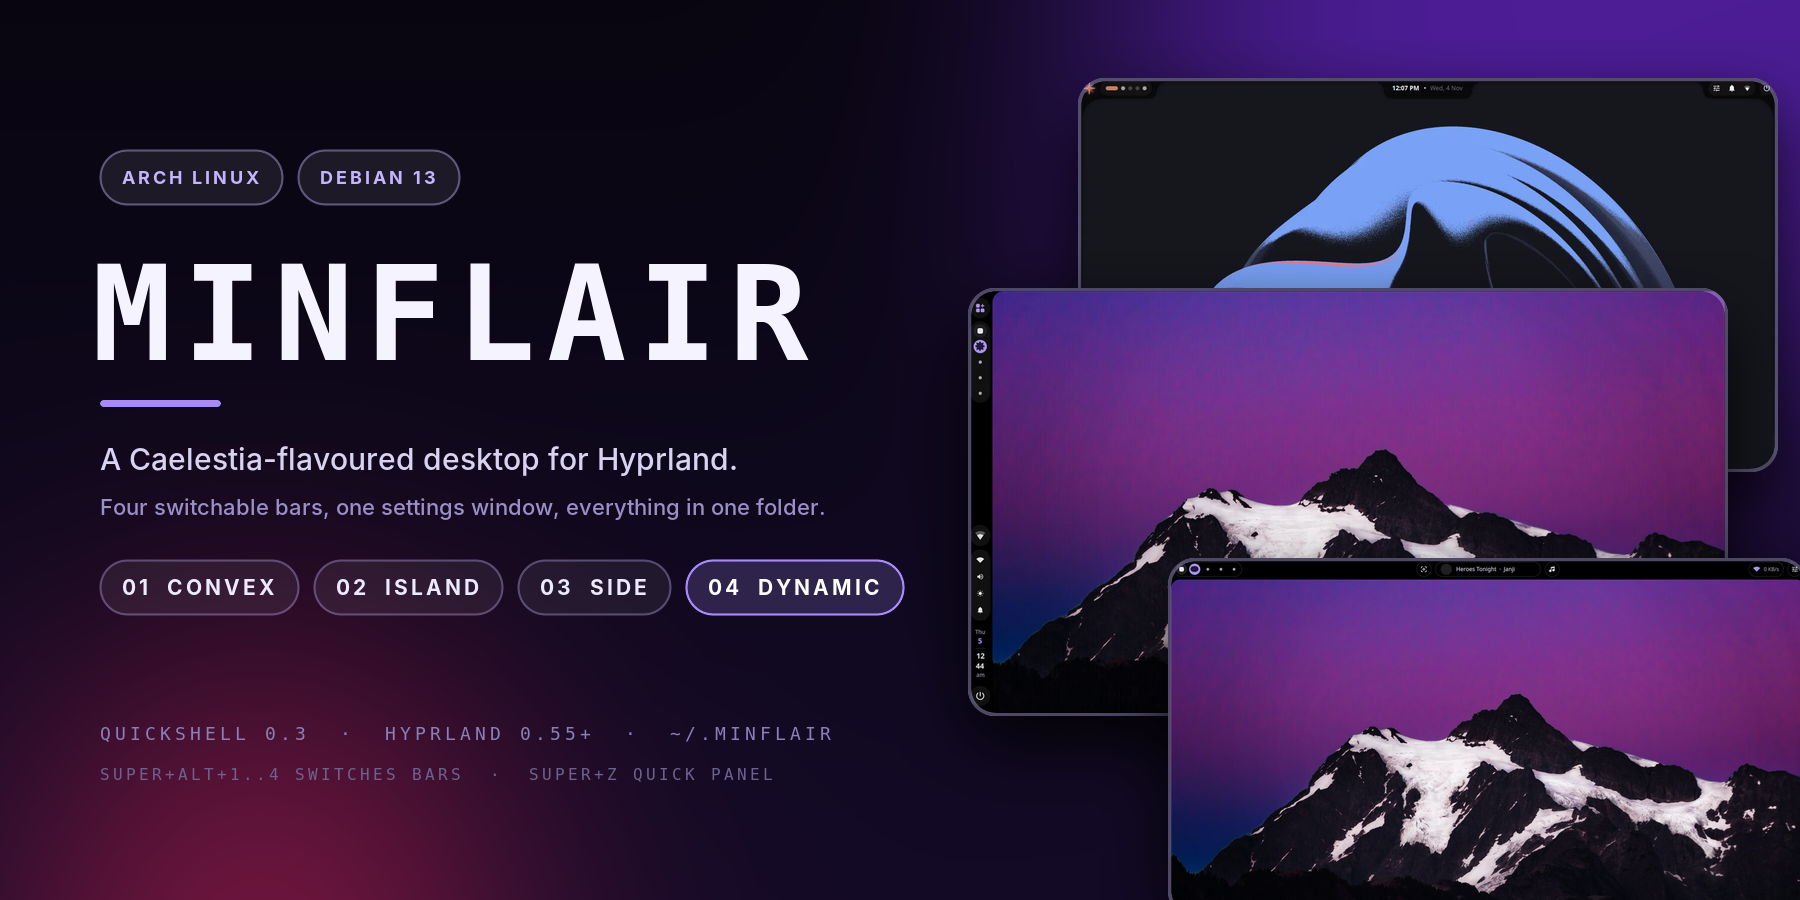
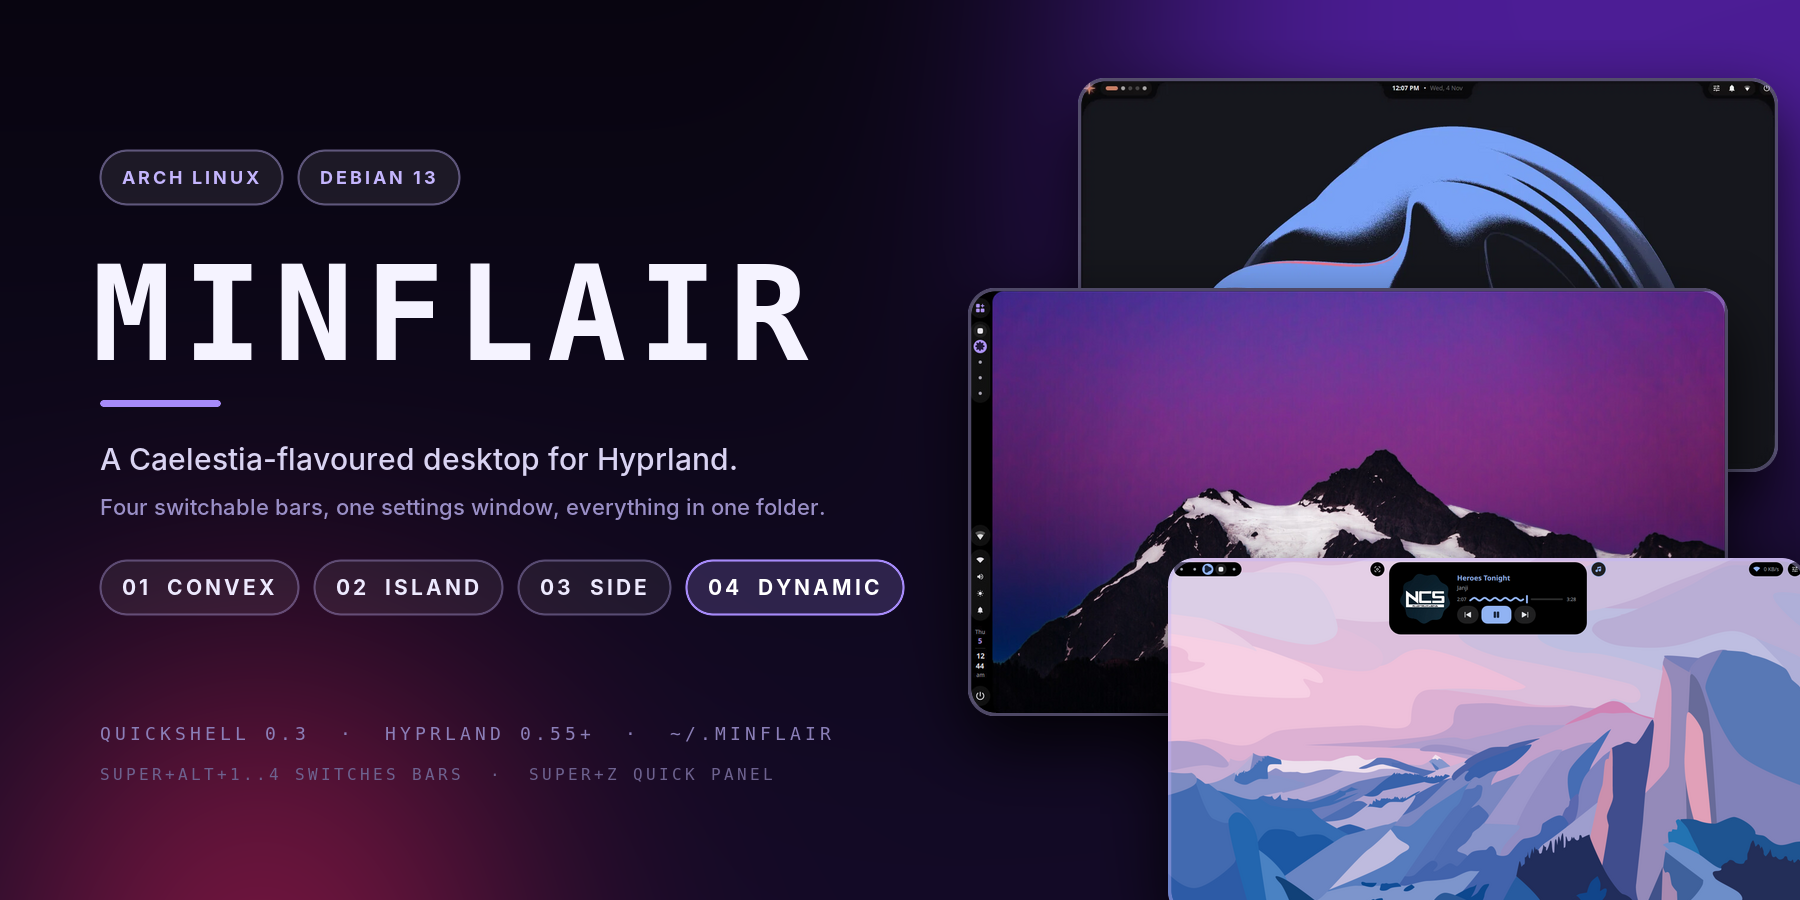
Fix Dynamic bar load error (SideWorkspaces wheelScroll), three-wallpaper hero, panel press feedback
Claude-Session: https://claude.ai/code/session_016sXFAAFCWza8qEn9pcXmRv

Changed region(s): [[0.6222, 0.6222, 1.0, 1.0]]

diff --git a/config/quickshell/Modules/ControlPanel/ControlPanelContent.qml b/config/quickshell/Modules/ControlPanel/ControlPanelContent.qml
@@ -136,7 +136,15 @@ Item {
                         ColorAnimation { duration: Constants.animFast }
                     }
 
+                    scale: wifiTileArea.pressed ? 0.97 : 1
+
+                    Behavior on scale {
+                        NumberAnimation { duration: 120; easing.type: Easing.OutCubic }
+                    }
+
                     MouseArea {
+                        id: wifiTileArea
+
                         anchors.fill: parent
                         cursorShape: Qt.PointingHandCursor
                         onClicked: root.page = "wifi"
@@ -248,7 +256,15 @@ Item {
                                 }
                             }
 
+                            scale: toggleArea.pressed ? 0.95 : 1
+
+                            Behavior on scale {
+                                NumberAnimation { duration: 120; easing.type: Easing.OutCubic }
+                            }
+
                             MouseArea {
+                                id: toggleArea
+
                                 anchors.fill: parent
                                 cursorShape: Qt.PointingHandCursor
                                 onClicked: {

diff --git a/config/quickshell/Modules/Bar/Styles/Side/SideWorkspaces.qml b/config/quickshell/Modules/Bar/Styles/Side/SideWorkspaces.qml
@@ -10,6 +10,7 @@ SidePill {
     id: root
 
     property bool vertical: true
+    property bool wheelScroll: false
     readonly property int slot: 24
     readonly property int gap: 4
     readonly property int pad: 5
@@ -422,7 +423,7 @@ SidePill {
     MouseArea {
         anchors.fill: parent
         acceptedButtons: Qt.NoButton
-        enabled: SettingsService.sideCfg("scroll", "workspaces")
+        enabled: root.wheelScroll || SettingsService.sideCfg("scroll", "workspaces")
         onWheel: (wheel) => root.go(root.activeWsId + (wheel.angleDelta.y > 0 ? -1 : 1))
     }
 }
